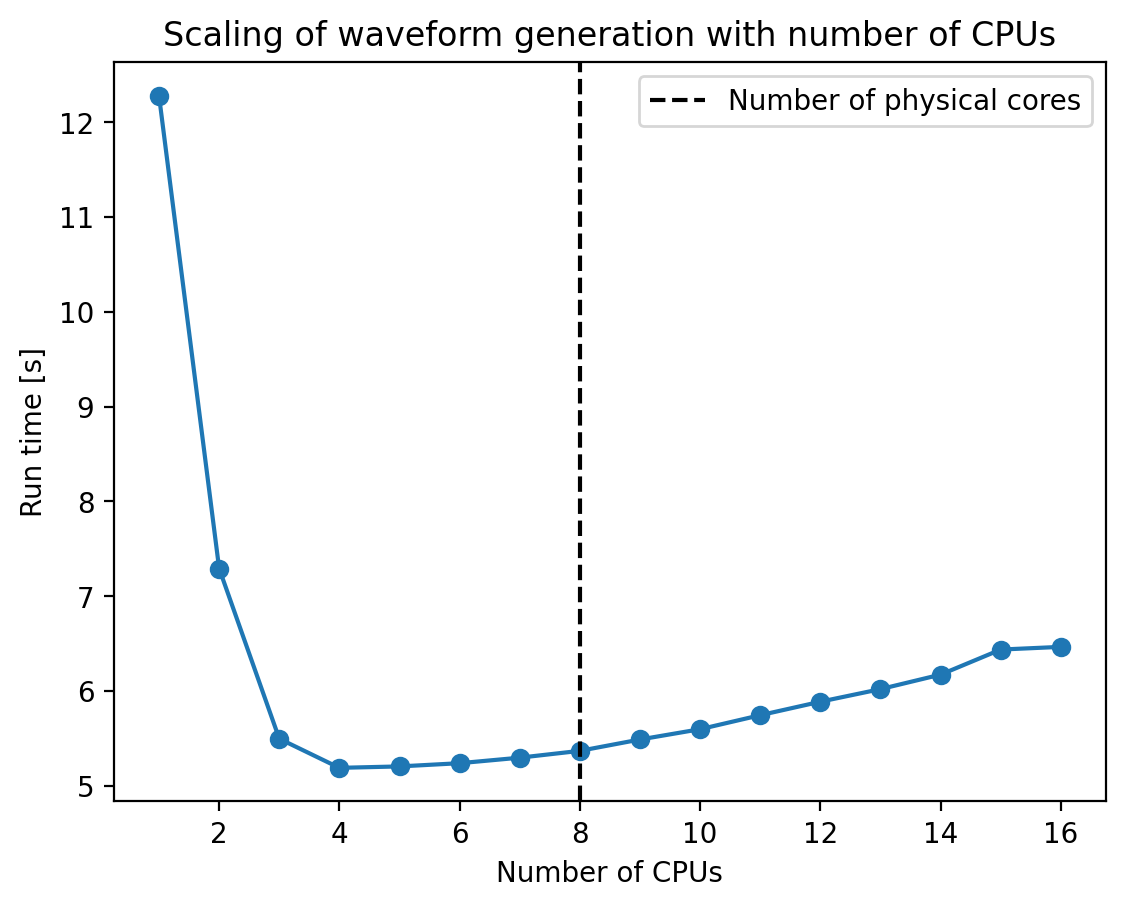
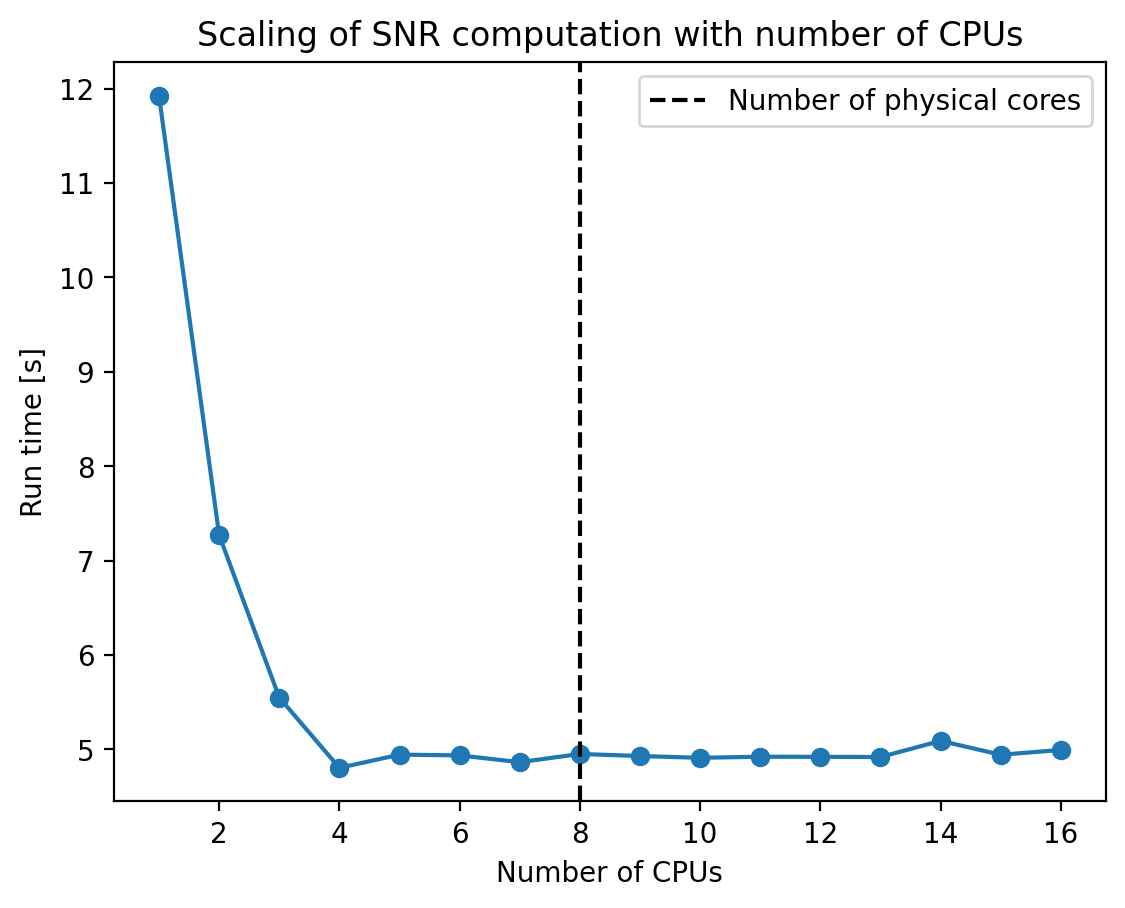
scaling plot

diff --git a/working/L07_numba_multiprocessing/Q3_scaling.py b/working/L07_numba_multiprocessing/Q3_scaling.py
@@ -120,6 +120,6 @@ if __name__=="__main__":
     plt.xlabel("Number of CPUs")
     plt.ylabel("Run time [s]")
     plt.axvline(os.cpu_count(), color='k', ls='--', label='Number of physical cores')
-    plt.title("Scaling of waveform generation with number of CPUs")
+    plt.title("Scaling of SNR computation with number of CPUs")
     plt.legend()
     plt.savefig("scaling.png", dpi=200, bbox_inches='tight')
